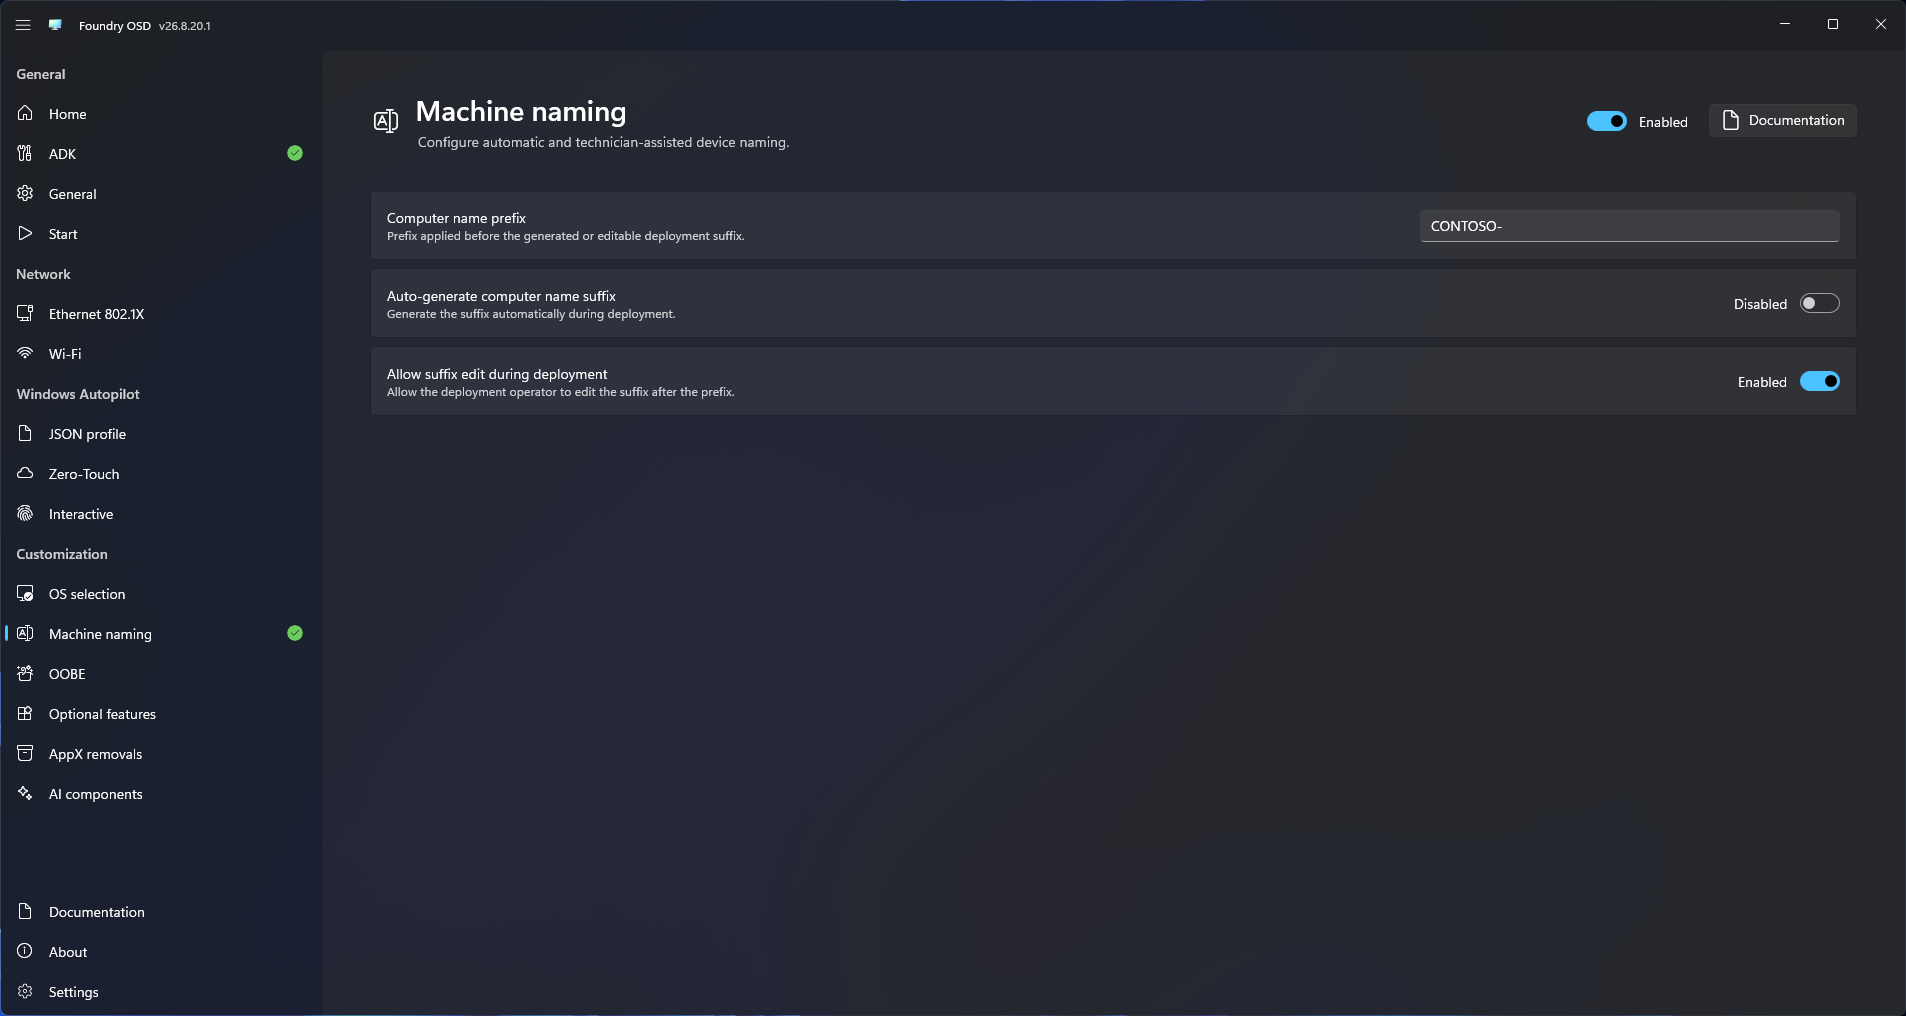
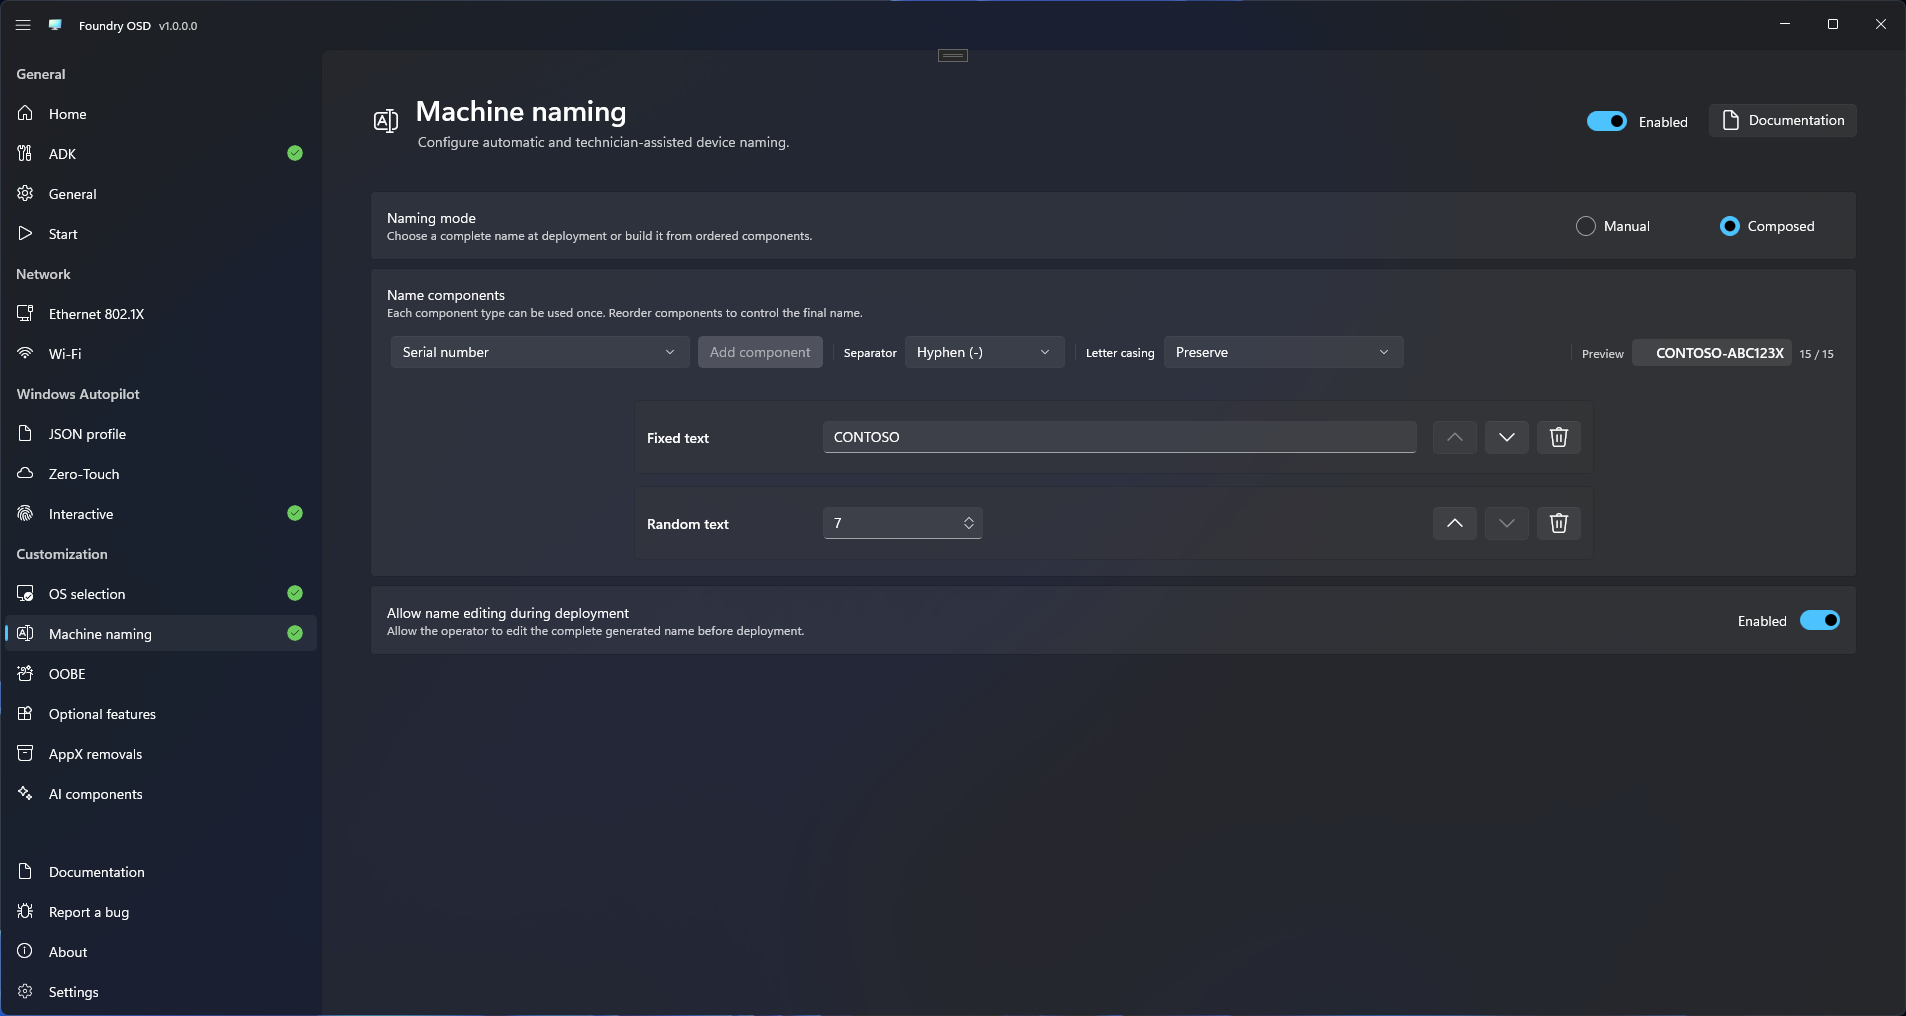
docs(naming): document machine name composition (#8)

diff --git a/foundry-osd/customization/machine-naming.md b/foundry-osd/customization/machine-naming.md
@@ -2,9 +2,14 @@
 
 Use Machine naming to define how a computer name is selected during deployment.
 
+<figure>
+  <img src="../../.gitbook/assets/foundry-osd-customization-machine-naming-01-configuration.png" alt="Foundry OSD machine naming configuration">
+  <figcaption>Choose a naming mode and configure the ordered components used to build the computer name.</figcaption>
+</figure>
+
 ## Naming requirements
 
-Foundry Deploy validates names as 1–15 characters containing letters, numbers, or hyphens.
+Foundry Deploy validates names as 1–15 characters containing letters, numbers, or hyphens. Underscores are not available because Windows computer names that use them are not DNS compatible.
 
 {% hint style="warning" %}
 Choose a naming method that prevents duplicate names and matches directory, inventory, and device-management requirements.
@@ -13,11 +18,43 @@ Choose a naming method that prevents duplicate names and matches directory, inve
 ## Configure naming
 
 1. Open **Customization > Machine naming**.
-2. Enable the required naming behavior.
-3. Configure the computer-name prefix, choose whether the suffix is generated automatically, and decide whether the deployment operator can edit the suffix.
-4. Return to **Start** and confirm customization readiness.
+2. Enable machine naming.
+3. Select **Manual** to let the deployment operator enter the complete name. You can optionally provide an initial value.
+4. Select **Composed** to build the name from ordered components. Each component type can be used once:
+   - Fixed text
+   - Serial number
+   - Manufacturer
+   - Model
+   - Asset tag
+   - System UUID
+   - Random text
+5. Configure each component:
+   - Enter the value for **Fixed text**.
+   - For **Random text**, choose a length from 1 to 15 characters.
+   - For device-data components, choose a maximum length from 1 to 15 characters and whether truncation keeps characters from the left or right. **Serial number** keeps characters from the right by default.
+6. Use the arrow buttons to reorder components or the delete button to remove one. **Add component** becomes unavailable when no unused component can fit within the remaining budget.
+7. Select either **No separator** or **Hyphen**, then choose whether to preserve, uppercase, or lowercase letters.
+8. Keep the configured maximum within the 15-character budget shown on the page. Separators count toward this limit.
+9. Decide whether the deployment operator can edit the complete generated name.
+10. Return to **Start** and confirm customization readiness.
 
-<figure>
-  <img src="../../.gitbook/assets/foundry-osd-customization-machine-naming-01-configuration.png" alt="Foundry OSD machine naming configuration">
-  <figcaption>Configure the computer-name prefix, generated suffix, and operator editing behavior.</figcaption>
-</figure>
+## How Foundry Deploy selects the name
+
+The name shown in the Foundry Deploy wizard depends on the Machine naming configuration:
+
+| Configuration | Name shown in the wizard |
+| --- | --- |
+| **Composed** | The name generated from the configured components and the device's hardware values. |
+| **Manual** with an initial value | The configured initial value. |
+| **Manual** without an initial value | The first available fallback name described below. |
+| Machine naming disabled or not configured | The first available fallback name described below. |
+
+When a fallback is required, Foundry Deploy uses the first valid name available in this order:
+
+1. The computer name from the Windows installation already present on the device.
+2. The current WinPE computer name, which is usually similar to `MININT-123ABC`.
+3. `PC` if neither previous name is available or valid.
+
+The name remains editable in the wizard unless **Composed** mode is configured to prevent editing. If a composed name cannot be generated because a required hardware value is unavailable, Foundry Deploy displays an error and blocks deployment instead of using a fallback name.
+
+The preview uses representative values. Foundry Deploy resolves actual hardware values at deployment startup and applies casing and separators to the same component rules used in the preview. For random text, a random value is generated with the configured length during deployment startup.

diff --git a/foundry-deploy/target.md b/foundry-deploy/target.md
@@ -10,7 +10,9 @@ Confirm the displayed hardware information matches the physical device. Review f
 
 Enter a name from 1 to 15 characters using letters, numbers, or hyphens. Follow the organization’s naming policy and avoid a name already assigned to another device.
 
-The policy authored in Foundry OSD can prefill a required prefix, require a non-empty suffix, or lock manual editing. A name that meets Windows character rules can still be rejected when it does not satisfy that deployment policy.
+The policy authored in Foundry OSD can request a complete manual name or compose one from fixed text, device data, and random text. A composed name can be locked or made editable as a complete value. A name that meets Windows character rules can still be rejected when it does not satisfy the configured component policy.
+
+Foundry Deploy resolves serial number, manufacturer, model, asset tag, and system UUID from the current device. Deployment is blocked when a required value is unavailable or contains a known firmware placeholder.
 
 ## Select the disk
 
